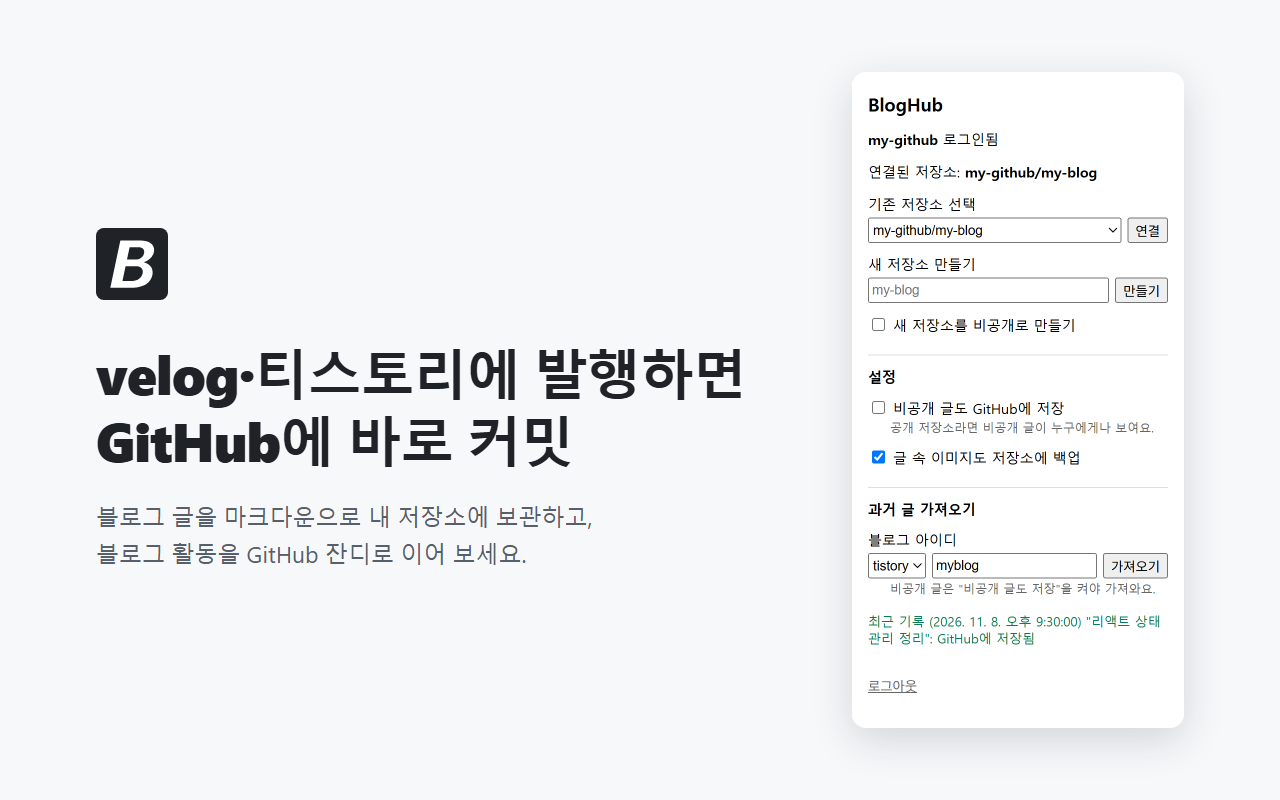
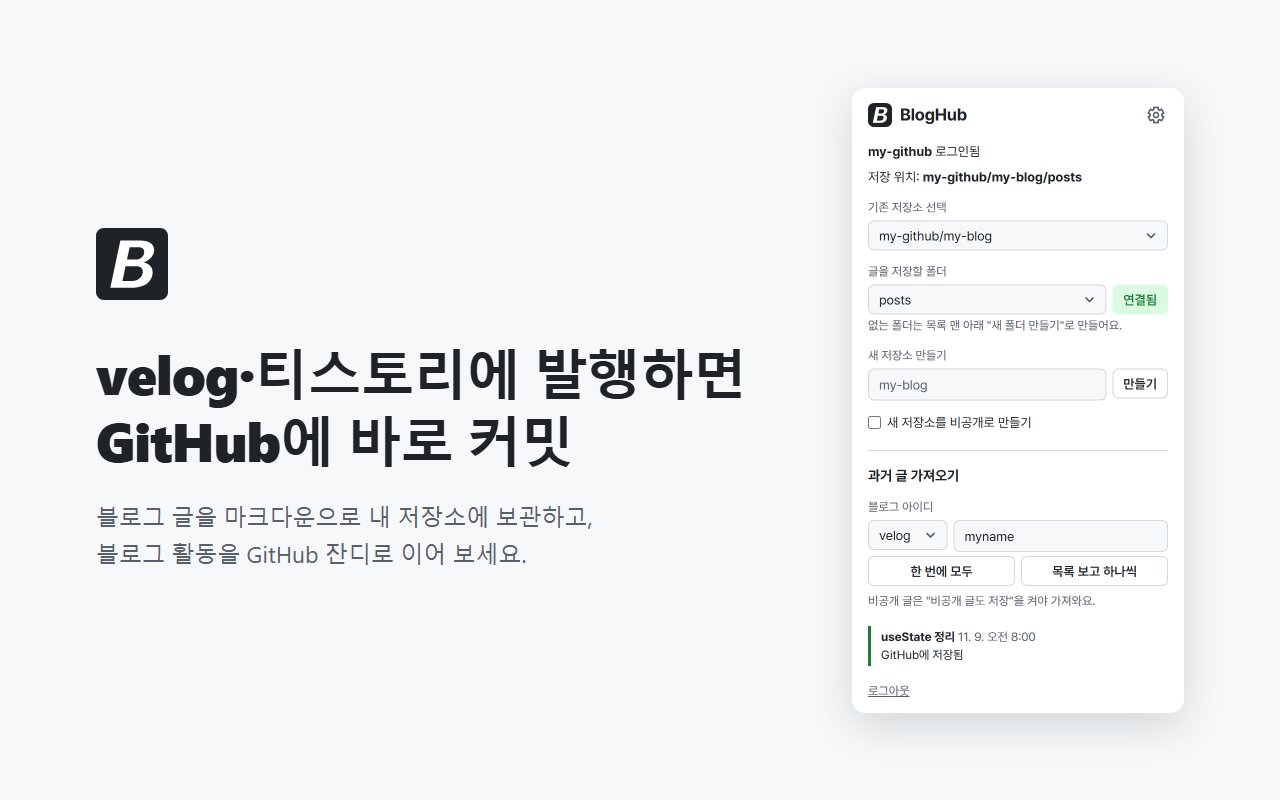
스토어 이미지를 새 디자인으로 교체하고 말투 바꾸기 화면 이미지 추가

Changed region(s): [[0.6562, 0.125, 0.9375, 0.9375], [0.875, 0.4688, 0.9062, 0.5], [0.875, 0.125, 0.9062, 0.1562]]

diff --git a/store/listing.md b/store/listing.md
@@ -80,7 +80,7 @@ GitHub
 | --- | --- |
 | Store logo (300×300) | `store/logo-300.png` |
 | Small promotional tile (440×280) | `store/promo-440x280.png` |
-| Screenshots (1280×800) | `store/screenshot-1.png`, `store/screenshot-2.png` |
+| Screenshots (1280×800) | `store/screenshot-1.png`, `store/screenshot-2.png`, `store/screenshot-3.png` |
 
 ## Notes for certification (심사 담당자에게, 영어)
 
